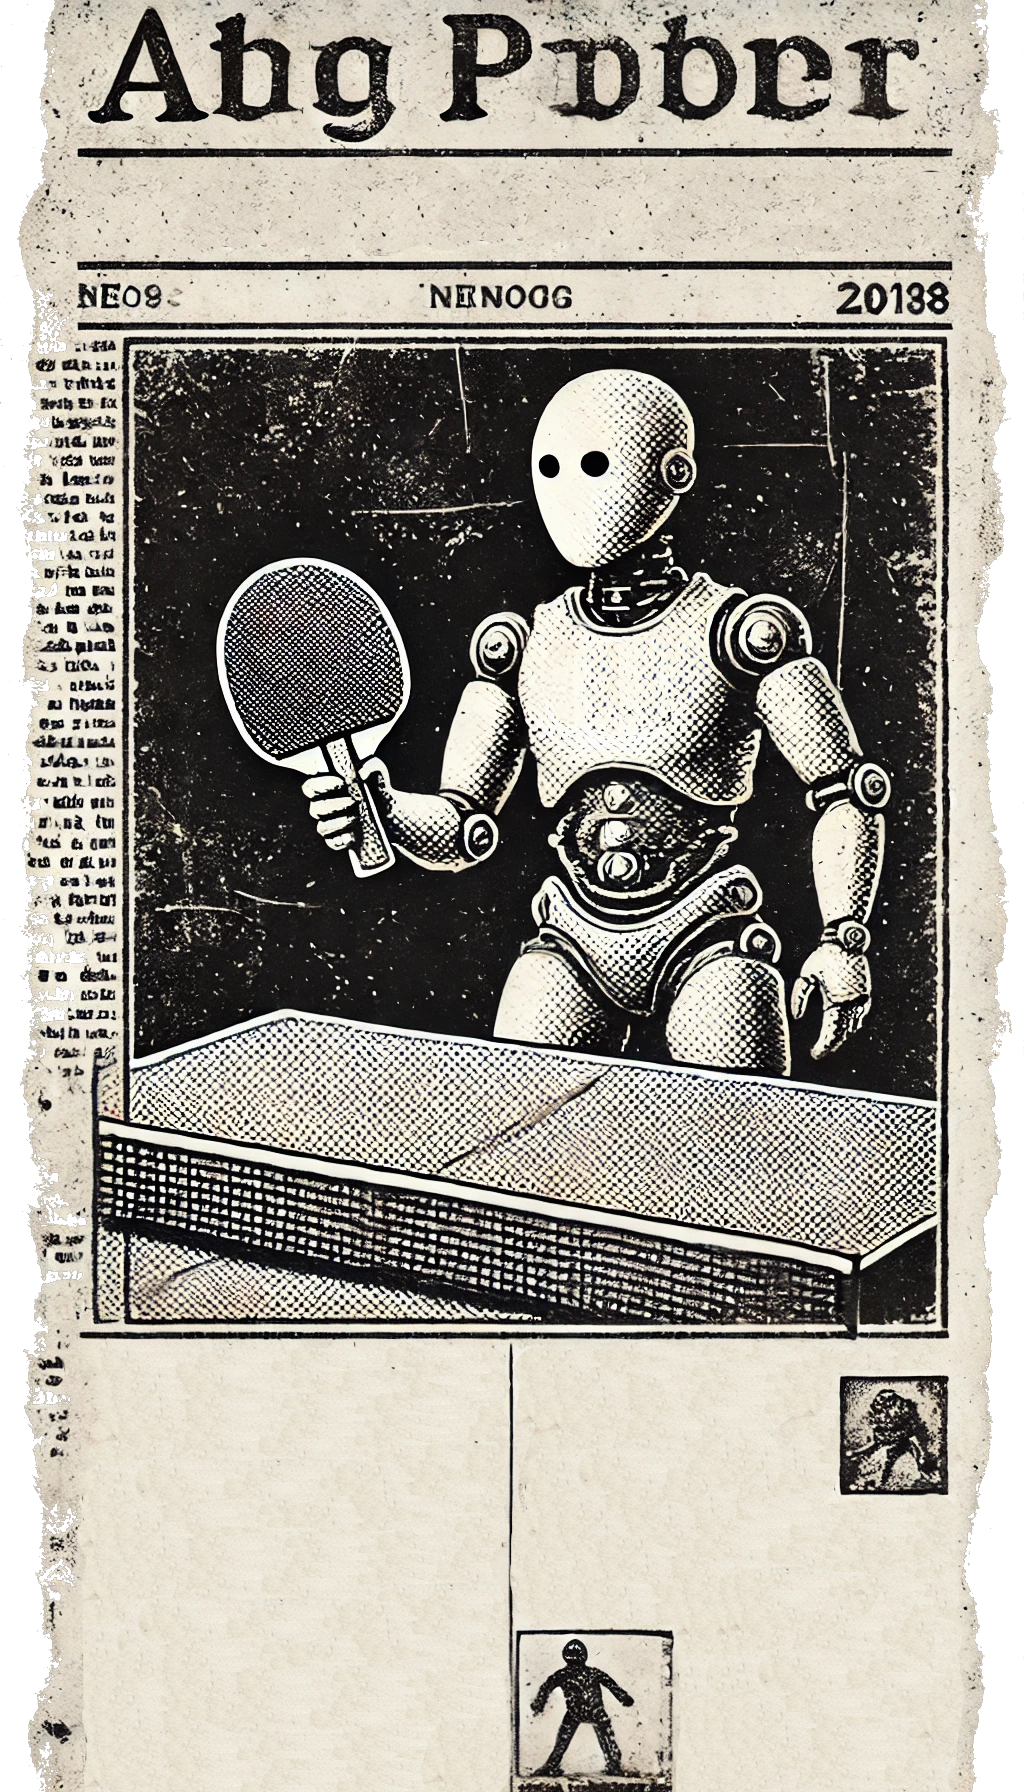
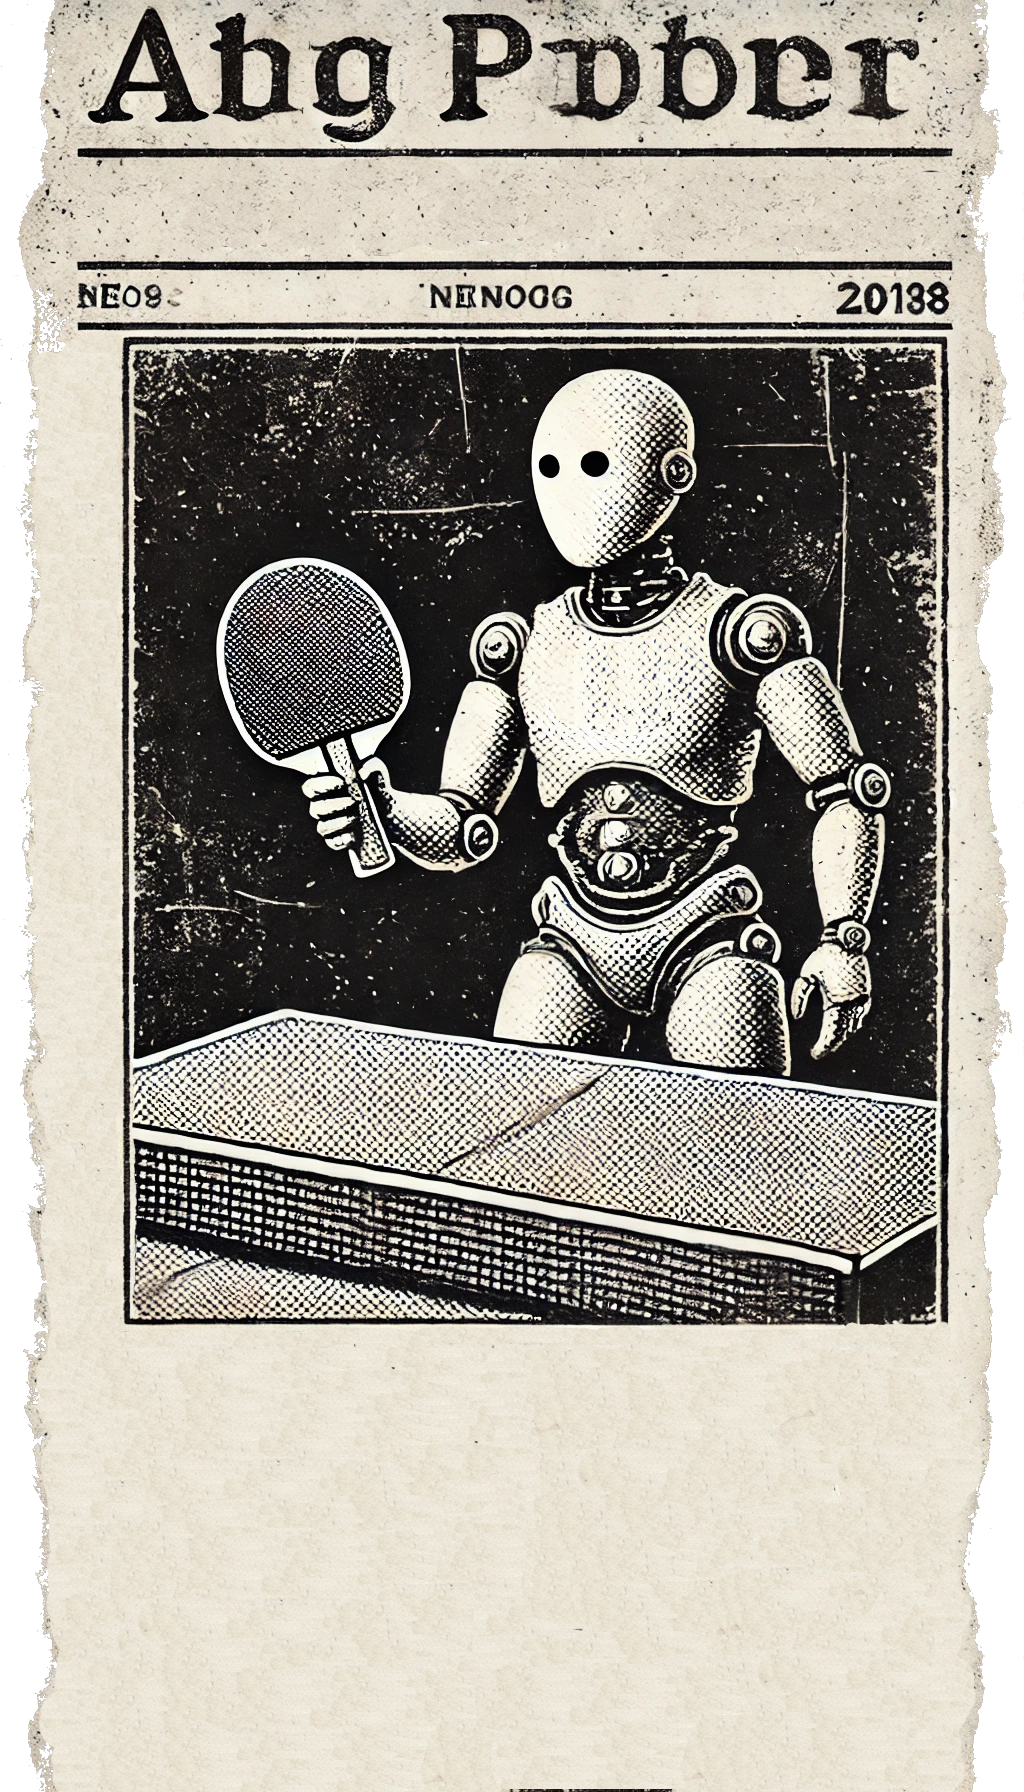
AI modal modal in progress

Changed region(s): [[0.0312, 0.1875, 0.9375, 0.9062], [0.4688, 0.8438, 0.6562, 1.0], [0.0312, 0.9375, 0.0938, 1.0]]

diff --git a/Frontend/html/home.html b/Frontend/html/home.html
@@ -1,16 +1,43 @@
 <div id="home-view">
-    <div class="modal fade" id="home-modal" tabindex="-1" role="dialog" aria-labelledby="exampleModalCenterTitle" aria-hidden="true" data-bs-backdrop="static">
-        <div class="modal-dialog modal-dialog-centered" role="document">
-          <div class="modal-content">
-            
-            <div class="modal-body" id="home-modal-body">
-              ...
+  <!-- Canvas -->
+  <canvas id="home-canvas"></canvas>
+
+    <!-- Modal -->
+  <div class="modal fade" id="home-modal" tabindex="-1" role="dialog" aria-labelledby="exampleModalCenterTitle" aria-hidden="true" data-bs-backdrop="static">
+    <div class="modal-dialog modal-dialog-centered" role="document">
+      <div class="modal-content">
+
+        <div class="modal-body" id="home-modal-body">
+          
+          <!-- A.I. Modal -->
+          <div id="AI-modal">
+            <div id="modal-title">
+              <h1>Play against A.I.</h1>
             </div>
-            
+            <div id="AI-modal-content-div">
+              <h3 id="AIModalMapsHeader">Maps</h3>
+              <h3 id="AIModalDificultyHeader">Dificulty</h3>
+              <button class="map1"></button>
+              <button class="map2"></button>
+              <div id="AIModalDificultyButton" class="btn-group" role="group" aria-label="Basic radio toggle button group">
+                <input type="radio" class="btn-check" name="btnradio" id="btnradio1" autocomplete="off" checked>
+                <label class="btn btn-outline-primary" for="btnradio1">Easy</label>
+              
+                <input type="radio" class="btn-check" name="btnradio" id="btnradio2" autocomplete="off">
+                <label class="btn btn-outline-primary" for="btnradio2">Medium</label>
+              
+                <input type="radio" class="btn-check" name="btnradio" id="btnradio3" autocomplete="off">
+                <label class="btn btn-outline-primary" for="btnradio3">Hard</label>
+              </div>
+              <button class="map3"></button>
+              <button class="map4"></button>
+              <button id="AIModalStartButton">start</button>
+            </div>
           </div>
         </div>
       </div>
-    <canvas id="home-canvas"></canvas>
+    </div>
+  </div>
 </div>
 
 <style>
@@ -25,9 +52,112 @@
         height: 100%;
     }
 
+    #home-modal-body{
+      background-size: contain;
+      background-position: center;
+      background-repeat: no-repeat;
+    }
+
     .modal-content {
         background-color: transparent; 
         border: none;
+    }
+
+    /* A.I. Modal */
+    #AI-modal{
+      padding: 6vh 2vh 2vh 2vh;
+      display: none;
+    }
+    #modal-title{
+      height: 10vh;
+      text-align: center;
+    }
+    #AI-modal-content-div{
+      display: grid;
+      margin: 48vh 5vh 5vh 5vh;
+      padding: 2vh;
+      grid-template-columns: 7vh auto ;
+      grid-gap: 1vh;
+      grid-template-areas: "header1 header1 header2 header2"
+                "map1 map2 buttons buttons"
+                "map3 map4 startButton startButton";
+    }
+
+    .map1{
+      width: 6vh;
+      height: 6vh;
+      grid-area: map1;
+      border: none;
+      background-image: url('../assets/homeView/UFOIcon.png');
+      background-size: contain;
+      background-position: center;
+      background-repeat: no-repeat;
+      box-shadow: 4px 4px; 
+    }
+    .map1:hover{
+      box-shadow: 10px;
+    }
+    .map2{
+      width: 6vh;
+      height: 6vh;
+      grid-area: map2;
+      border: none;
+      background-image: url('../assets/homeView/lizardPeopleIcon.png');
+      background-size: contain;
+      background-position: center;
+      background-repeat: no-repeat;
+    }
+    .map3{
+      width: 6vh;
+      height: 6vh;
+      grid-area: map3;
+      border: none;
+      background-image: url('../assets/homeView/snowmanIcon.png');
+      background-size: contain;
+      background-position: center;
+      background-repeat: no-repeat;
+    }
+    .map4{
+      width: 6vh;
+      height: 6vh;
+      grid-area: map4;
+      border: none;
+      background-image: url('../assets/homeView/lochnessIcon.png');
+      background-size: contain;
+      background-position: center;
+      background-repeat: no-repeat;
+    }
+    #AIModalMapsHeader{
+      grid-area: header1;
+    }
+    #AIModalDificultyHeader{
+      grid-area: header2;
+    }
+    #AIModalDificultyButton{
+      grid-area: buttons;
+      height: 4vh;
+      width: 20vh;
+    }
+    #AIModalStartButton{
+      grid-area: startButton;
+      height: 5vh;
+      width: 20vh;
+      color: black;
+    }
+    .btn-outline-primary{
+      color: black;
+      background-color: transparent;
+      border-color: black;
+    }
+    .btn-outline-primary:hover, .btn-outline-primary:focus{
+      color: black;
+      background-color: white;
+      border-color: black;
+    }
+    .btn-check:checked + .btn-outline-primary{
+      color: white;
+      background-color: black;
+      border-color: transparent;
     }
     
 </style>

diff --git a/Frontend/js/views/home/callbacks.js b/Frontend/js/views/home/callbacks.js
@@ -1,17 +1,23 @@
 import { $id } from '../../abstracts/dollars.js';
 import router from '../../navigation/router.js';
 
+function hideModalElements(){
+    let modalContent = $id("AI-modal");
+    modalContent.style.display = 'none';
+}
+
 export function AIModalCallback(){
 
     let modalElement = $id('home-modal');
     let modalBody = $id('home-modal-body');
+    let modalContent = $id("AI-modal")
 
+    hideModalElements();
     modalBody.style.backgroundImage = "url('../../../assets/homeView/AIModal.png')";
     modalBody.style.height = '90vh';
     modalBody.style.width = '30vw';
-    modalBody.style.backgroundSize = 'contain'; // Ensure the image covers the whole area background-size: contain
-    modalBody.style.backgroundPosition = 'center'; // Center the image
-    modalBody.style.backgroundRepeat = 'no-repeat'; // Prevent repeating the image
+
+    modalContent.style.display = 'block';
     const modal = new bootstrap.Modal(modalElement);
     modal.show();
 
@@ -22,6 +28,7 @@ export function battleModalCallback(){
     let modalElement = $id('home-modal');
     let modalBody = $id('home-modal-body');
 
+    hideModalElements();
     modalBody.style.backgroundImage = "url('../../../assets/homeView/lizardPeopleModal.png')";
     modalBody.style.height = '90vh';
     modalBody.style.width = '30vw';
@@ -37,6 +44,7 @@ export function tournamentModalCallback(){
     let modalElement = $id('home-modal');
     let modalBody = $id('home-modal-body');
 
+    hideModalElements();
     modalBody.style.backgroundImage = "url('../../../assets/homeView/bigfootModal2.png')";
     modalBody.style.height = '90vh';
     modalBody.style.width = '30vw';
@@ -56,6 +64,7 @@ export function leaderboardModalCallback(){
     let modalBody = $id('home-modal-body');
     let modalElement = $id('home-modal');
 
+    hideModalElements();
     modalBody.style.backgroundImage = "url('../../../assets/homeView/AICard.png')";
     modalBody.style.height = '90vh';
     modalBody.style.width = '30vw';

diff --git a/Frontend/js/views/home/script.js b/Frontend/js/views/home/script.js
@@ -208,6 +208,4 @@ export function mouseClick(event){
     if (!foundElement)
         return ;
     
-   
-
 }
